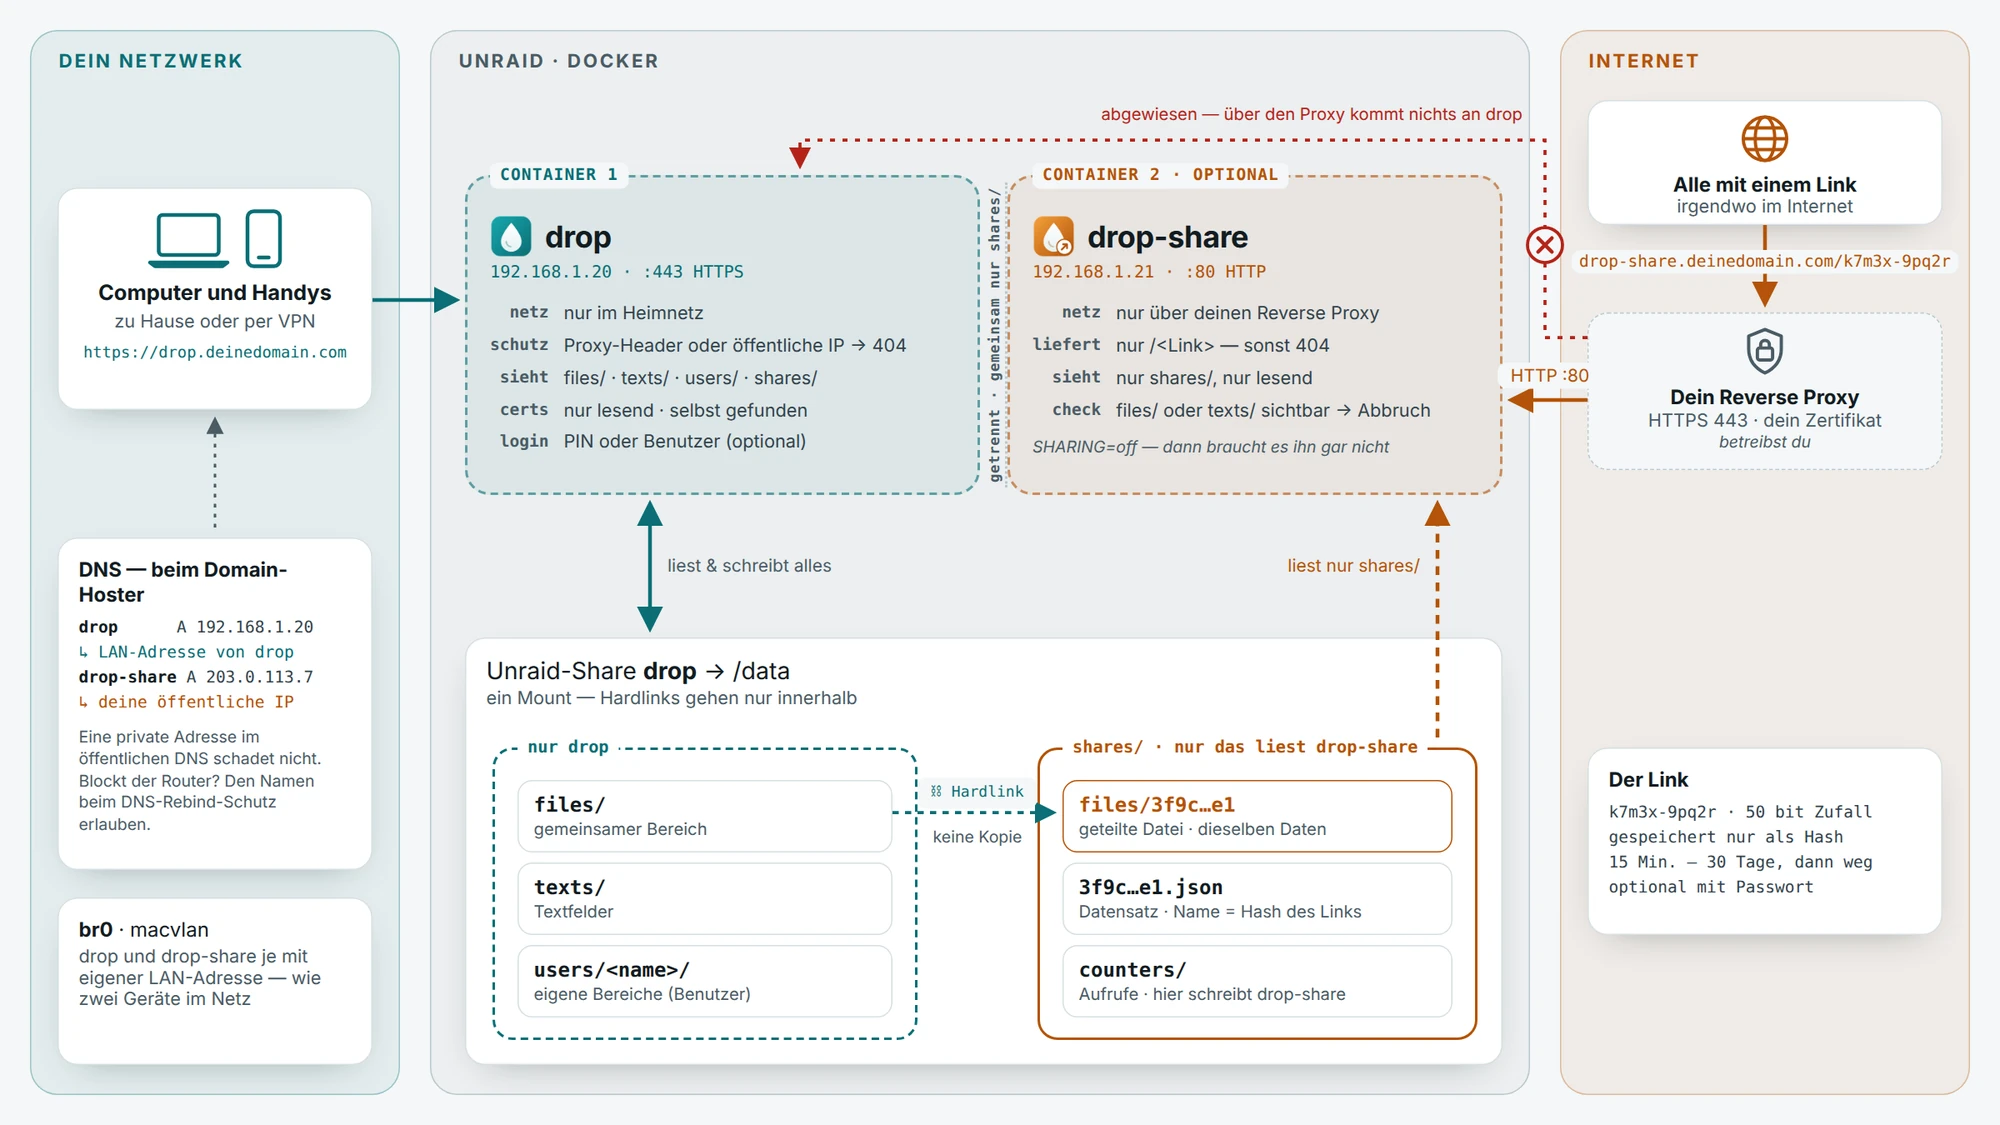
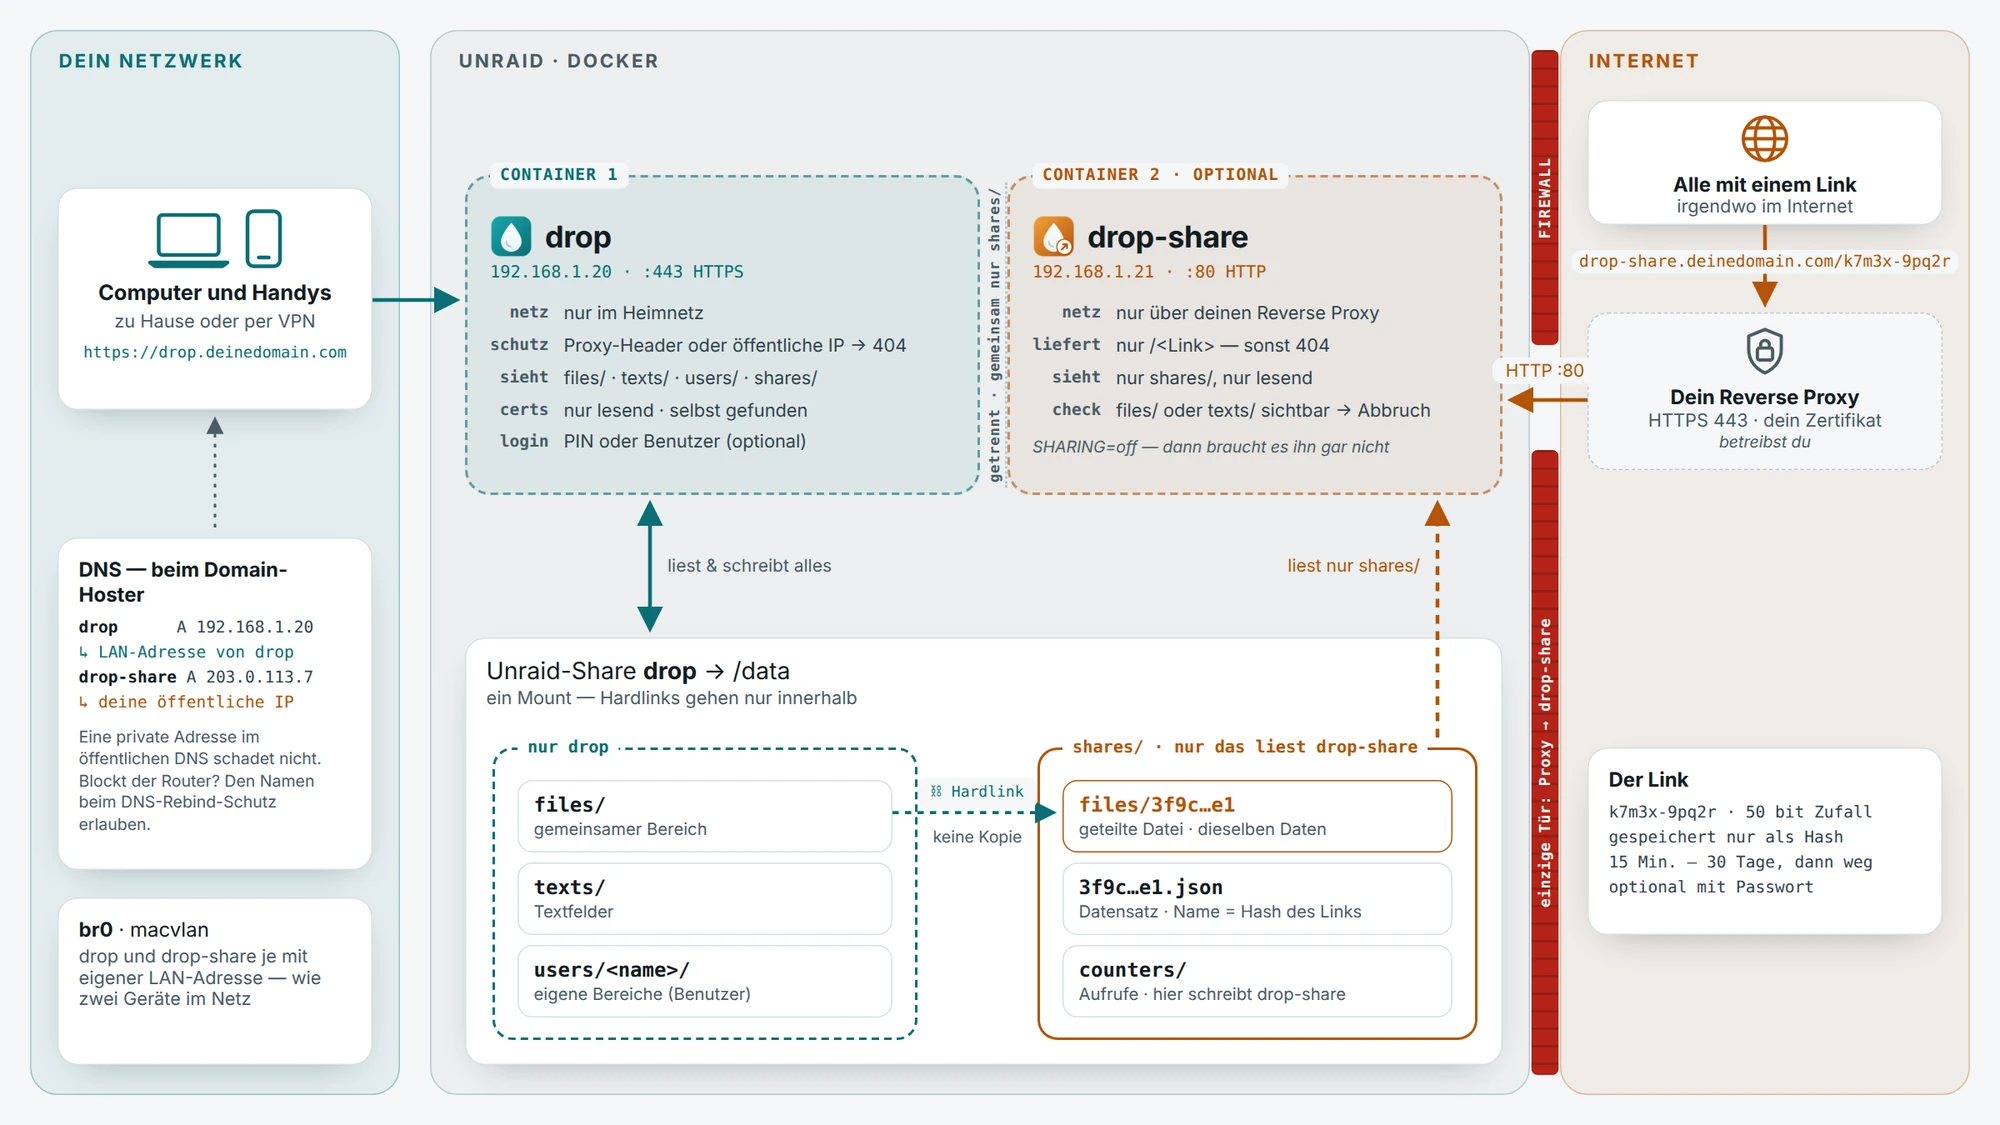
Diagram: a solid firewall instead of a refused path
The dashed red line from the proxy to drop, crossed out, read like a
connection that exists and is blocked. By default there is none: a solid
firewall now separates the internet from everything else, with a single
gap — your reverse proxy to drop-share on port 80. drop's own guard
against proxied requests stays listed in its box.

Claude-Session: https://claude.ai/code/session_01JJbUtLtMVVvXZcBoi5qyfq

Changed region(s): [[0.744, 0.4044, 0.806, 0.9644], [0.558, 0.0311, 0.806, 0.3422], [0.372, 0.1244, 0.403, 0.1556]]

diff --git a/docs/de/index.html b/docs/de/index.html
@@ -315,7 +315,7 @@
     <p class="sub wide"><b>drop</b> hält deine Dateien und Texte und ist nur im Heimnetz erreichbar. <b>drop-share</b> liefert die Freigabe-Links ins Internet aus — und sieht nichts ausser dem, was du geteilt hast. Reverse Proxy und Zertifikate bleiben deine Sache.</p>
     <picture class="diagram">
       <source media="(prefers-color-scheme: dark)" srcset="../diagram/architecture-de-dark.webp">
-      <img src="../diagram/architecture-de-light.webp" width="2000" height="1125" loading="lazy" alt="Architektur: Geräte im Heimnetz erreichen drop direkt unter drop.deinedomain.com, dessen DNS-Eintrag auf die LAN-Adresse von drop zeigt. drop und das optionale drop-share laufen als zwei getrennte Container mit je eigener LAN-Adresse (br0, macvlan); gemeinsam haben sie nur shares/. drop antwortet nur im Heimnetz und weist alles mit Proxy-Headern oder von öffentlichen IPs ab; es liest und schreibt den ganzen Daten-Share. drop-share liefert nur Freigabe-Links, nur über deinen Reverse Proxy, und liest nur shares/. Eine geteilte Datei ist ein Hardlink in shares/ — keine Kopie. Aus dem Internet gehen Anfragen über deinen Reverse Proxy zu drop-share auf Port 80; zu drop kommt so nichts.">
+      <img src="../diagram/architecture-de-light.webp" width="2000" height="1125" loading="lazy" alt="Architektur: Geräte im Heimnetz erreichen drop direkt unter drop.deinedomain.com, dessen DNS-Eintrag auf die LAN-Adresse von drop zeigt. drop und das optionale drop-share laufen als zwei getrennte Container mit je eigener LAN-Adresse (br0, macvlan); gemeinsam haben sie nur shares/. drop antwortet nur im Heimnetz und weist alles mit Proxy-Headern oder von öffentlichen IPs ab; es liest und schreibt den ganzen Daten-Share. drop-share liefert nur Freigabe-Links, nur über deinen Reverse Proxy, und liest nur shares/. Eine geteilte Datei ist ein Hardlink in shares/ — keine Kopie. Eine Firewall trennt das Internet von allem anderen; ihre einzige Tür führt über deinen Reverse Proxy zu drop-share auf Port 80 — zu drop gibt es keine.">
     </picture>
   </div>
 </section>

diff --git a/docs/index.html b/docs/index.html
@@ -315,7 +315,7 @@
     <p class="sub wide"><b>drop</b> holds your files and texts and is reachable only in your network. <b>drop-share</b> serves the share links to the internet — and sees nothing but what you shared. Your reverse proxy and your certificates stay yours.</p>
     <picture class="diagram">
       <source media="(prefers-color-scheme: dark)" srcset="diagram/architecture-en-dark.webp">
-      <img src="diagram/architecture-en-light.webp" width="2000" height="1125" loading="lazy" alt="Architecture: devices in your network reach drop directly at drop.yourdomain.com, whose DNS entry points to drop's LAN address. drop and the optional drop-share run as two separate containers, each with a LAN address of its own (br0, macvlan), walled off from each other with only shares/ in common. drop answers your network only and refuses anything with proxy headers or from a public IP; it reads and writes the whole data share. drop-share serves only share links, only through your reverse proxy, and reads only shares/. A shared file is a hard link in shares/ — no copy. From the internet, requests go through your reverse proxy to drop-share on port 80; nothing reaches drop that way.">
+      <img src="diagram/architecture-en-light.webp" width="2000" height="1125" loading="lazy" alt="Architecture: devices in your network reach drop directly at drop.yourdomain.com, whose DNS entry points to drop's LAN address. drop and the optional drop-share run as two separate containers, each with a LAN address of its own (br0, macvlan), walled off from each other with only shares/ in common. drop answers your network only and refuses anything with proxy headers or from a public IP; it reads and writes the whole data share. drop-share serves only share links, only through your reverse proxy, and reads only shares/. A shared file is a hard link in shares/ — no copy. A firewall separates the internet from everything else; its only door leads through your reverse proxy to drop-share on port 80 — there is none to drop.">
     </picture>
   </div>
 </section>

diff --git a/README.md b/README.md
@@ -67,7 +67,7 @@ host with Docker Compose, too: see [Without Unraid](docs/DEVELOPMENT.md#without-
 <p align="center">
   <picture>
     <source media="(prefers-color-scheme: dark)" srcset="docs/diagram/architecture-en-dark.webp">
-    <img src="docs/diagram/architecture-en-light.webp" alt="Architecture: devices in your network reach drop directly at drop.yourdomain.com, whose DNS entry points to drop's LAN address. drop and the optional drop-share run as two separate containers, each with a LAN address of its own (br0, macvlan), walled off from each other with only shares/ in common. drop answers your network only and refuses anything with proxy headers or from a public IP; it reads and writes the whole data share. drop-share serves only share links, only through your reverse proxy, and reads only shares/. A shared file is a hard link in shares/ — no copy. From the internet, requests go through your reverse proxy to drop-share on port 80; nothing reaches drop that way." width="100%">
+    <img src="docs/diagram/architecture-en-light.webp" alt="Architecture: devices in your network reach drop directly at drop.yourdomain.com, whose DNS entry points to drop's LAN address. drop and the optional drop-share run as two separate containers, each with a LAN address of its own (br0, macvlan), walled off from each other with only shares/ in common. drop answers your network only and refuses anything with proxy headers or from a public IP; it reads and writes the whole data share. drop-share serves only share links, only through your reverse proxy, and reads only shares/. A shared file is a hard link in shares/ — no copy. A firewall separates the internet from everything else; its only door leads through your reverse proxy to drop-share on port 80 — there is none to drop." width="100%">
   </picture>
 </p>
 

diff --git a/README.de.md b/README.de.md
@@ -69,7 +69,7 @@ auf jedem anderen Linux-Rechner mit Docker Compose: siehe
 <p align="center">
   <picture>
     <source media="(prefers-color-scheme: dark)" srcset="docs/diagram/architecture-de-dark.webp">
-    <img src="docs/diagram/architecture-de-light.webp" alt="Architektur: Geräte im Heimnetz erreichen drop direkt unter drop.deinedomain.com, dessen DNS-Eintrag auf die LAN-Adresse von drop zeigt. drop und das optionale drop-share laufen als zwei getrennte Container mit je eigener LAN-Adresse (br0, macvlan); gemeinsam haben sie nur shares/. drop antwortet nur im Heimnetz und weist alles mit Proxy-Headern oder von öffentlichen IPs ab; es liest und schreibt den ganzen Daten-Share. drop-share liefert nur Freigabe-Links, nur über deinen Reverse Proxy, und liest nur shares/. Eine geteilte Datei ist ein Hardlink in shares/ — keine Kopie. Aus dem Internet gehen Anfragen über deinen Reverse Proxy zu drop-share auf Port 80; zu drop kommt so nichts." width="100%">
+    <img src="docs/diagram/architecture-de-light.webp" alt="Architektur: Geräte im Heimnetz erreichen drop direkt unter drop.deinedomain.com, dessen DNS-Eintrag auf die LAN-Adresse von drop zeigt. drop und das optionale drop-share laufen als zwei getrennte Container mit je eigener LAN-Adresse (br0, macvlan); gemeinsam haben sie nur shares/. drop antwortet nur im Heimnetz und weist alles mit Proxy-Headern oder von öffentlichen IPs ab; es liest und schreibt den ganzen Daten-Share. drop-share liefert nur Freigabe-Links, nur über deinen Reverse Proxy, und liest nur shares/. Eine geteilte Datei ist ein Hardlink in shares/ — keine Kopie. Eine Firewall trennt das Internet von allem anderen; ihre einzige Tür führt über deinen Reverse Proxy zu drop-share auf Port 80 — zu drop gibt es keine." width="100%">
   </picture>
 </p>
 
